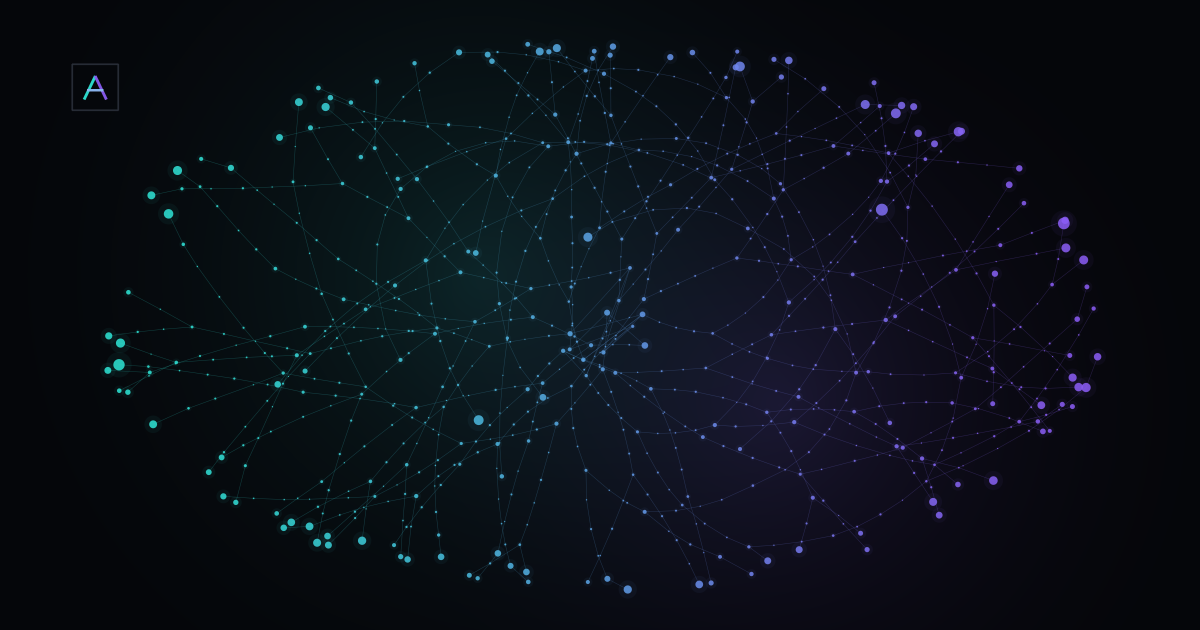
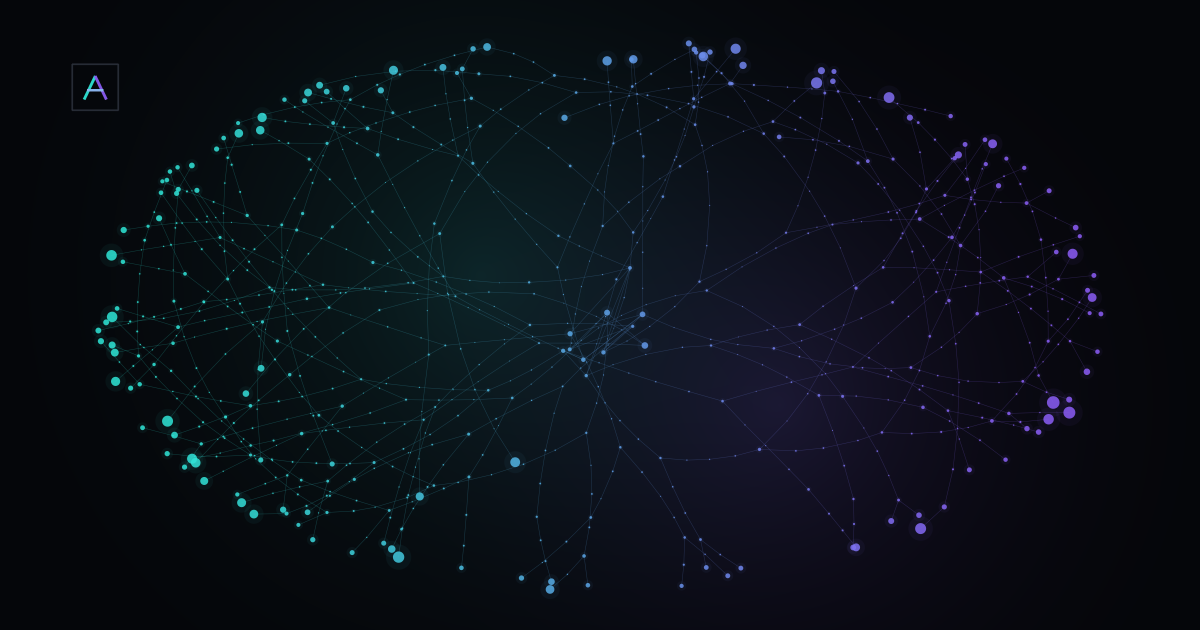
Fix the clipped N, shrink the wordmark, and close the field into a circle
The N was clipped for a real reason, and it was not the padding: the logo lived
in a <symbol>, and <use> gives a symbol its own viewport anchored at (0,0). The
drawing was therefore pushed 8 units right of a viewBox whose origin is -8, so
the right stroke fell outside the window while the arithmetic on paper looked
fine. Keeping the artwork as a plain group in <defs> clones it into the caller's
coordinate system, where the padding actually applies; a test now asserts the
last letter's stroke, cap included, sits inside the viewBox. The wordmark also
comes down about 15%, and the footer drops it entirely.

The footer is now one grey line, © Alex Oxitocin. Both tagline sentences are
gone on the client's instruction; they are listed in the tests as removed text
so a copy-paste cannot quietly restore them, and CONTENT-AUDIT records what the
footer used to hold. No year in the copyright — there is no source for one.

The hero field closes into a circle. Strides are long near the middle and short
out by the rim, so the inside holds fewer neurons than the edge, and the
boundary is drawn by a broken ring of nodes rather than a stroked circle. The
circle is not allowed to touch the copy: it is centred in the column left over
beside it and shrunk until it clears both the text and the far edge of the
canvas. Where there is no such column — one-column layouts — it drops below the
hero's lower edge and only its top arc shows, which leaves the copy with no
[…]

diff --git a/alex-neon/website/src/js/neural.js b/alex-neon/website/src/js/neural.js
@@ -91,6 +91,51 @@ function createNeuralField(canvas, options) {
     return Number.isFinite(raw) ? raw : fallback;
   };
 
+  /**
+   * Where the figure sits, in device pixels. `--nr` asks for a circle whose
+   * radius is a fraction of the canvas height; without it the figure is the
+   * ellipse given by `--nrx` / `--nry`.
+   *
+   * With `clearOf`, a circle is kept out of that element's box: it is centred
+   * in the column left over beside the copy and shrunk until its edge clears
+   * it. When the copy spans the canvas — one-column layouts — there is no such
+   * column, and the CSS placement stands.
+   */
+  function measureShape(cssWidth, cssHeight) {
+    const nx = cssNumber("--nx", 0.5);
+    const ny = cssNumber("--ny", 0.5);
+    const circle = cssNumber("--nr", NaN);
+
+    if (!Number.isFinite(circle)) {
+      return {
+        cx: nx * W,
+        cy: ny * H,
+        rx: cssNumber("--nrx", 0.5) * W,
+        ry: cssNumber("--nry", 0.5) * H
+      };
+    }
+
+    let radius = circle * cssHeight;
+    let centreX = nx * cssWidth;
+
+    const clear = options.clearOf && document.querySelector(options.clearOf);
+    if (clear) {
+      const box = canvas.getBoundingClientRect();
+      const keepOut = clear.getBoundingClientRect();
+      const gap = 40;
+      const left = keepOut.right - box.left + gap;
+      /* Leave the far edge some room too, or the rim gets sliced flat by it. */
+      const column = cssWidth - left - 28;
+      /* Below roughly a third of the width the copy owns the canvas. */
+      if (column > cssWidth * 0.34) {
+        radius = Math.min(radius, column / 2);
+        centreX = left + column / 2;
+      }
+    }
+
+    return { cx: centreX * dpr, cy: ny * H, rx: radius * dpr, ry: radius * dpr };
+  }
+
   function build() {
     const cssWidth = canvas.clientWidth;
     const cssHeight = canvas.clientHeight;
@@ -104,12 +149,14 @@ function createNeuralField(canvas, options) {
 
     const perMegapixel = options.densityPerMegapixel ?? 1500;
     const nodes = Math.round(((cssWidth * cssHeight) / 1e6) * perMegapixel);
+    const shape = measureShape(cssWidth, cssHeight);
 
     field = generateField({
-      cx: cssNumber("--nx", 0.5) * W,
-      cy: cssNumber("--ny", 0.5) * H,
-      rx: cssNumber("--nrx", 0.5) * W,
-      ry: cssNumber("--nry", 0.5) * H,
+      cx: shape.cx,
+      cy: shape.cy,
+      rx: shape.rx,
+      ry: shape.ry,
+      rim: options.rim === true,
       nodes: Math.max(120, Math.min(2200, nodes)),
       seed: options.seed ?? 0x5eed,
       scale: dpr,
@@ -413,9 +460,12 @@ const heroCanvas = document.querySelector(".hero-canvas");
 if (heroCanvas) {
   createNeuralField(heroCanvas, {
     host: heroCanvas.closest(".hero") ?? heroCanvas.parentElement,
-    /* Thinned towards the copy column so the headline keeps its contrast. */
-    leftBias: 0.78,
-    densityPerMegapixel: 780,
+    /* The circle is placed beside the copy, so the density gradient across it
+       is only a gentle one — the clearance does the real work. */
+    leftBias: 0.3,
+    clearOf: ".hero-copy",
+    rim: true,
+    densityPerMegapixel: 820,
     pointerRadius: 190
   });
 }

diff --git a/alex-neon/website/src/js/field.js b/alex-neon/website/src/js/field.js
@@ -79,11 +79,14 @@ export function generateField(o) {
     return leftBias * (1 - smoothstep(t));
   };
 
-  const outside = (px, py) => {
+  /** 0 at the centre, 1 on the boundary. */
+  const radial = (px, py) => {
     const dx = (px - cx) / rx;
     const dy = (py - cy) / ry;
-    return dx * dx + dy * dy > 1;
+    return Math.min(1, Math.sqrt(dx * dx + dy * dy));
   };
+
+  const outside = (px, py) => radial(px, py) >= 1;
 
   const addNode = (px, py, radius) => {
     if (count >= cap) return -1;
@@ -123,7 +126,10 @@ export function generateField(o) {
 
     for (let s = 0; s < segments; s++) {
       angle += curve + (rng() - 0.5) * 0.05;
-      const step = STEP * (0.8 + rng() * 0.5) * (1 + depth * 0.15);
+      /* Long strides near the middle, short ones out by the rim: the inside of
+         the circle then holds fewer neurons than its edge. */
+      const t = radial(px, py);
+      const step = STEP * (0.8 + rng() * 0.5) * (1 + depth * 0.15) * (1.75 - 0.85 * t);
       px += Math.cos(angle) * step;
       py += Math.sin(angle) * step;
       /* A filament that leaves the field still ends in a soma — most of them
@@ -139,9 +145,14 @@ export function generateField(o) {
         return;
       }
       /* Along the path the nodes are hair-fine; the last one of a run is a
-         little junction bead. */
+         little junction bead. Both shrink towards the centre. */
       const isJoint = s === segments - 1;
-      const node = addNode(px, py, isJoint ? 0.9 + rng() * 0.7 : 0.4 + rng() * 0.45);
+      const inner = 0.5 + 0.5 * radial(px, py);
+      const node = addNode(
+        px,
+        py,
+        (isJoint ? 0.9 + rng() * 0.7 : 0.4 + rng() * 0.45) * inner
+      );
       addEdge(previous, node, false);
       previous = node;
     }
@@ -219,6 +230,26 @@ export function generateField(o) {
     const heading2 = angle + (((bias - angle + Math.PI * 3) % (Math.PI * 2)) - Math.PI) * 0.45;
     grow(root.node, root.x, root.y, heading2, (rng() - 0.5) * 0.24, 0);
     trunk++;
+  }
+
+  /* ---- Rim: the boundary drawn by the network itself -------------------- */
+  if (o.rim) {
+    const ring = Math.min(rx, ry);
+    const steps = Math.max(28, Math.round((Math.PI * 2 * ring) / (unit * 0.06)));
+    let previous = -1;
+    for (let i = 0; i < steps; i++) {
+      const angle = (i / steps) * Math.PI * 2;
+      const px = cx + Math.cos(angle) * ring * (1 - rng() * 0.04);
+      const py = cy + Math.sin(angle) * ring * (1 - rng() * 0.04);
+      /* Breaks in the ring keep it from reading as a drawn circle. */
+      if (rng() < 0.12 + thinning(px)) {
+        previous = -1;
+        continue;
+      }
+      const node = addNode(px, py, 0.45 + rng() * 0.9);
+      addEdge(previous, node, false);
+      previous = node;
+    }
   }
 
   return {

diff --git a/alex-neon/website/src/index.html b/alex-neon/website/src/index.html
@@ -26,12 +26,15 @@
 <body>
   <a class="skip-link" href="#top">К содержанию</a>
 
-  <!-- Wordmark: monoline geometric caps. Letter boxes are unchanged; the
-       tracking sets how elongated the logo reads. The viewBox keeps a stroke's
-       worth of padding on every side so round caps cannot look shaved. -->
+  <!-- Wordmark: monoline geometric caps, kept in <defs> as a plain group.
+       A <symbol> would be wrong here: <use> gives a symbol its own viewport
+       anchored at (0,0), which shifts the drawing against a viewBox whose
+       origin is negative and shaves the last letter. A group is cloned into
+       the caller's coordinate system, so the padding in the viewBox holds. -->
   <svg class="logo-sprite" aria-hidden="true" focusable="false">
-    <symbol id="logo-alex-oxitocin" viewBox="-8 -2 1078 116">
-      <g fill="none" stroke-width="7" stroke-linecap="round" stroke-linejoin="round">
+    <defs>
+      <g id="logo-alex-oxitocin" fill="none" stroke-width="7"
+         stroke-linecap="round" stroke-linejoin="round">
         <g class="logo-alex">
           <path d="M0 106 33 6 66 106"/>
           <path d="M105 6v100h52"/>
@@ -49,7 +52,7 @@
           <path d="M1004 106V6l58 100V6"/>
         </g>
       </g>
-    </symbol>
+    </defs>
   </svg>
 
   <header class="site-header">
@@ -506,15 +509,7 @@
 
   <footer class="site-footer">
     <div class="container footer-inner">
-      <a class="brand brand-footer" href="#top" aria-label="Alex Oxitocin — наверх страницы">
-        <svg class="logo" viewBox="-8 -2 1078 116" aria-hidden="true" focusable="false">
-          <use href="#logo-alex-oxitocin"/>
-        </svg>
-      </a>
-      <div class="footer-note">
-        <p>Индивидуальное обучение практической работе с ИИ.</p>
-        <p>Без привязки к одной модели, сервису или приложению.</p>
-      </div>
+      <p class="footer-copyright">© Alex Oxitocin</p>
     </div>
   </footer>
 </body>

diff --git a/alex-neon/website/src/styles/layout.css b/alex-neon/website/src/styles/layout.css
@@ -88,14 +88,13 @@
   align-items: center;
   padding-block: calc(var(--header-h) + var(--sp-7)) var(--sp-8);
   overflow: hidden;
-  /* Field composition, inherited by the canvas and read there by neural.mjs:
-     --nx / --ny place the centre, --nrx / --nry give the half-width and
-     half-height, all as fractions of the canvas. The field spans the whole
-     hero and runs behind the copy; neural.mjs thins it towards that side. */
-  --nx: 0.68;
-  --ny: 0.48;
-  --nrx: 0.35;
-  --nry: 0.45;
+  /* Field composition, inherited by the canvas and read there by neural.js.
+     --nr asks for a circle of that fraction of the canvas height; --nx / --ny
+     place its centre. neural.js then keeps the circle clear of .hero-copy, so
+     the rim never runs into the headline. */
+  --nx: 0.72;
+  --ny: 0.5;
+  --nr: 0.44;
 }
 
 /* Soft corona behind the figure: gives the neurons depth without a third hue. */
@@ -380,16 +379,16 @@
 
 .footer-inner {
   display: flex;
-  align-items: flex-start;
+  align-items: center;
   justify-content: space-between;
-  gap: var(--sp-6);
+  gap: var(--sp-4);
   flex-wrap: wrap;
 }
 
-.footer-note {
+/* Plain grey text, not the wordmark: the footer only signs the page. */
+.footer-copyright {
   color: var(--text-3);
   font-size: var(--fs-small);
-  max-width: 24rem;
 }
 
 /* ---- Reveal on scroll (JS present; ≤ 250ms, fade + 10px rise) ------- */
@@ -486,10 +485,12 @@
   .hero {
     align-items: flex-start;
     padding-top: calc(var(--header-h) + var(--sp-5));
+    /* One column leaves no room for a circle beside the copy, so it sits below
+       the fold line of the hero and only its top arc shows. The copy then has
+       no neurons behind it at all. */
     --nx: 0.5;
-    --ny: 0.3;
-    --nrx: 0.62;
-    --nry: 0.4;
+    --ny: 1.06;
+    --nr: 0.21;
   }
 
   .hero-copy {

diff --git a/alex-neon/website/src/styles/components.css b/alex-neon/website/src/styles/components.css
@@ -77,14 +77,10 @@
 }
 
 .logo {
-  /* Aspect ratio comes from the symbol's viewBox (1306 × 112). */
-  height: 1.375rem;
+  /* Aspect ratio comes from the viewBox (1078 × 116). */
+  height: 1.1875rem;
   width: auto;
   display: block;
-}
-
-.brand-footer .logo {
-  height: 1.625rem;
 }
 
 .logo-alex {
@@ -107,17 +103,13 @@
    layer is concatenated later and would otherwise win. */
 @media (max-width: 60em) {
   .logo {
-    height: 1.125rem;
+    height: 1rem;
   }
 }
 
 @media (max-width: 30em) {
   .logo {
-    height: 0.9375rem;
-  }
-
-  .brand-footer .logo {
-    height: 1.25rem;
+    height: 0.8125rem;
   }
 }
 

diff --git a/alex-neon/AGENTS.md b/alex-neon/AGENTS.md
@@ -12,11 +12,17 @@
 - Типографика: Unbounded — только дисплейные роли (h1, h2, номера, монограмма);
   Manrope — весь остальной текст. Обе variable, self-hosted, subsets
   cyrillic+latin. Новые шрифты не добавлять.
-- Знак бренда — логотип **ALEX OXITOCIN** (инлайновый `<symbol>` в
-  `src/index.html`, один на шапку и футер): «ALEX» лазурный `--teal`,
-  «OXITOCIN» фиолетовый `--logo-violet`. Начертание перерисовано по образцу
-  заказчика; не менять буквы, порядок цветов и пропорции без запроса. Ссылке
-  нужен `aria-label`, самой графике — `aria-hidden`.
+- Знак бренда — логотип **ALEX OXITOCIN** только в шапке: «ALEX» лазурный
+  `--teal`, «OXITOCIN» фиолетовый `--logo-violet`. Начертание перерисовано по
+  образцу заказчика; не менять буквы, порядок цветов и пропорции без запроса.
+  Ссылке нужен `aria-label`, самой графике — `aria-hidden`.
+- Логотип лежит в `<defs>` как обычная `<g>`, а не как `<symbol>`: `<use>` даёт
+  символу собственный вьюпорт в точке (0,0), из-за чего рисунок съезжает
+  относительно viewBox с отрицательным началом и последняя буква оказывается
+  подрезанной. Отступ в viewBox должен быть не меньше половины толщины штриха —
+  это проверяется тестом.
+- Футер несёт только «© Alex Oxitocin» серым текстом. Логотип и слоганы там не
+  возвращать.
 - Тон: инженерный, спокойный, дорогой. Без восклицаний, таймеров срочности и
   фейковых счётчиков.
 
@@ -62,6 +68,13 @@
   читаются как дуги, ветвятся и заканчиваются сомой. Никакого вращения и
   дрейфа. Не превращать поле ни в равномерную «пыль частиц», ни в звёздочку из
   прямых лучей из одной точки.
+- В hero фигура — круг: `--nr` задаёт радиус долей высоты канваса, шаги внутри
+  длиннее, чем у края, поэтому середина круга разреженнее обода, а сам обод
+  дорисован прерывистым кольцом (`rim`). Круг не имеет права заезжать на текст:
+  `clearOf` центрирует его в свободной колонке рядом с копией и уменьшает
+  радиус, пока край не разойдётся и с текстом, и с краем канваса. Когда колонки
+  нет (одна колонка на узких экранах), круг уходит под нижний край hero и виден
+  только верхней дугой.
 - Узлы обязаны быть разного размера: вдоль нити — почти невидимые, на
   развилках — бусины, на концах — заметные сомы с широким разбросом. Нить,
   вышедшая за границу эллипса, всё равно получает сому, иначе у фигуры не

diff --git a/alex-neon/CONTENT-AUDIT.md b/alex-neon/CONTENT-AUDIT.md
@@ -274,7 +274,15 @@
 
 ## Футер
 
-- Бренд: тот же логотип **ALEX OXITOCIN** (крупнее, чем в шапке)
+По указанию заказчика (2026-08-10) футер сведён к одной строке:
+
+- «© Alex Oxitocin» — обычный текстовый копирайт, серый `--text-3`, Manrope.
+- Логотип из футера убран (остался только в шапке).
+- Убраны две строки оригинала: «Индивидуальное обучение практической работе с
+  ИИ.» и «Без привязки к одной модели, сервису или приложению.» Год в копирайте
+  намеренно не указан — источника для него нет.
+
+Прежний состав футера (для истории): логотип + обе строки-слогана.
 - «Индивидуальное обучение практической работе с ИИ.»
 - «Без привязки к одной модели, сервису или приложению.»
 - В оригинале нет копирайта и года — не добавлять.
@@ -291,6 +299,7 @@
 | Служебный текст доступности | Добавлены не видимые в оригинале строки: скип-ссылка «К содержанию», `aria-label` навигации «Разделы страницы», подпись кнопки меню «Меню». Это интерфейсные подписи, а не контент заказчика |
 | Вордмарк | Текст «Алексей · ИИ по делу» в шапке и футере заменён логотипом ALEX OXITOCIN по указанию заказчика (2026-08-10). Логотип перерисован по присланному образцу; лазурный и фиолетовый поменяны местами относительно образца, лазурный приведён к `--teal` лендинга. По второй правке трекинг уплотнён: пропорция 9.3 : 1 вместо 11.7 : 1 |
 | Логотип комьюнити | Добавлен аватар чата «Алло, Нейросеточная?» из Telegram по указанию заказчика; хостится локально |
+| Футер | По указанию заказчика убраны логотип и обе строки-слогана, оставлен только копирайт «© Alex Oxitocin». Строки перечислены в `REMOVED_TEXT` в тестах, чтобы не вернулись копипастой |
 | Страница 404 | Новая: заголовок «Страница не найдена — ИИ по делу», текст «Такой страницы нет.», кнопка «На главную». В оригинале страница не выявлена |
 | Повторные CTA | Кнопка «Записаться на бесплатный чек-ап» продублирована после блоков сравнения и сценариев. Текст кнопки — из оригинала, добавлены только повторы |
 

diff --git a/alex-neon/README.md b/alex-neon/README.md
@@ -26,9 +26,13 @@
 - Интерактив: два canvas-поля — статичные, без вращения. Структура дендритная:
   из ядра расходятся ветвящиеся нити, узлы разного калибра — от почти
   невидимых вдоль нити до крупных сом на концах. Под курсором нейроны
-  загораются, и заряд идёт дальше по связям. Сторона с текстом прорежена
-  сильнее. В блоке «Как проходит» у каждого шага свой нейрон, который
-  откликается на наведение. При `prefers-reduced-motion` — статичный рендер.
+  загораются, и заряд идёт дальше по связям. При `prefers-reduced-motion` —
+  статичный рендер.
+- В hero фигура — круг с прерывистым ободом и разреженной серединой. Он
+  размещается в свободной колонке рядом с текстом и никогда его не задевает;
+  на узких экранах уходит под нижний край hero и виден верхней дугой.
+- В блоке «Как проходит» у каждого шага свой нейрон, который откликается на
+  наведение на пункт.
 
 ## Источники истины
 
